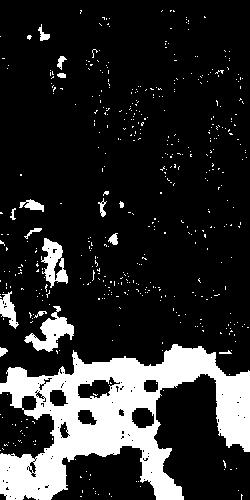
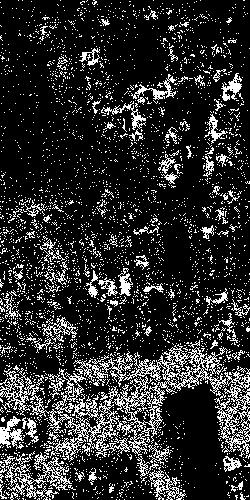
Changement de la politque d'apprentissage en pondérant les classes directement par rapport à leur proportion dans l'image #18, ajout de paramètre pour determiner la région d'apprentissage et de validation

diff --git a/MNT/RandomForests/randomForest.py b/MNT/RandomForests/randomForest.py
@@ -9,6 +9,7 @@ from skimage.transform import pyramid_gaussian
 import numpy as np
 import matplotlib.pyplot as plt
 import matplotlib.cm as cm
+import libtiff
 from libtiff import TIFF
 from PIL import Image
 from os import path
@@ -16,6 +17,7 @@ from netCDF4 import Dataset
 import math
 import argparse
 
+libtiff.libtiff_ctypes.suppress_warnings()
 
 def verite_terrain(in_dir):
   sol = path.join(in_dir,'sol.tif')
@@ -26,8 +28,6 @@ def verite_terrain(in_dir):
 
   imageBuilding=TIFF.open(building)
   imgBuilding = imageBuilding.read_image()
-
-  print(imgSol.shape)
 
   veriteTerrain = imgBuilding
 
@@ -49,33 +49,21 @@ def verite_terrain(in_dir):
 def preparation_donnees(altitudes, nb_zoom):
 
   #creation de la pyramide gaussienne
-  pyramid=tuple(pyramid_gaussian(altitudes,nb_zoom))
-  print(pyramid[0].shape, pyramid[1].shape)
+  pyramid=tuple(pyramid_gaussian(altitudes,nb_zoom, multichannel=False))
+
   #calcul des gradients
   Grad = []
   i = 0
   j = 0
 
   for i in range(nb_zoom):
-    x,y = np.gradient(pyramid[i])
-    Grad.append(np.sqrt(np.add(np.square(x), np.square(y))))
+      x,y = np.gradient(pyramid[i])
+      Grad.append(np.sqrt(np.add(np.square(x), np.square(y))))
 
-  for i in range(1,nb_zoom,1):
+  for i in range(1, nb_zoom, 1):
+      Grad[i] = np.repeat(Grad[i], math.pow(2,i), axis=0)
+      Grad[i] = np.repeat(Grad[i], math.pow(2,i), axis=1)
 
-    aux = np.zeros(pyramid[0].shape)
-
-    for o in range(i):
-      for x in range(Grad[i].shape[0]):
-        for y in range(Grad[i].shape[1]):
-
-          u = x * 2
-          j = y * 2
-          aux[u,j]= Grad[i][x,y]
-          aux[u+1,j] = Grad[i][x,y]
-          aux[u,j+1] = Grad[i][x,y]
-          aux[u+1,j+1] = Grad[i][x,y]
-
-      Grad[i] = aux
   return Grad
 
 
@@ -96,10 +84,30 @@ def preparation_features (altitude):
 parser = argparse.ArgumentParser()
 parser.add_argument('input_dir')
 parser.add_argument('nb_zoom')
+
+parser.add_argument('train_lower_x')
+parser.add_argument('train_higher_x')
+parser.add_argument('train_lower_y')
+parser.add_argument('train_higher_y')
+
+parser.add_argument('test_lower_x')
+parser.add_argument('test_higher_x')
+parser.add_argument('test_lower_y')
+parser.add_argument('test_higher_y')
+
 args = parser.parse_args()
 
 nb_zoom = int(args.nb_zoom)
 in_dir = args.input_dir
+
+train_box = (int(args.train_lower_x), int(args.train_higher_x),
+             int(args.train_lower_y), int(args.train_higher_y))
+train_size = (train_box[1] - train_box[0], train_box[3] - train_box[2])
+
+test_box = (int(args.test_lower_x), int(args.test_higher_x),
+            int(args.test_lower_y), int(args.test_higher_y))
+test_size = (test_box[1] - test_box[0], test_box[3] - test_box[2])
+
 
 #ouverture fichier netCDF
 dataset = Dataset(path.join(in_dir,'data.nc'))
@@ -111,21 +119,21 @@ altitudes = dataset.variables['altitude'][:,:]
 
 y = verite_terrain(in_dir)
 
-end = len(y[0])
-hend = int(math.floor(end/2))
-
 # préparation donnees train et test
-train = preparation_features(altitudes[:,:hend])
+train = preparation_features(altitudes[train_box[0]:train_box[1],
+                                       train_box[2]:train_box[3]])
 
-test = preparation_features(altitudes[:,hend:end])
+test = preparation_features(altitudes[test_box[0]:test_box[1],
+                                      test_box[2]:test_box[3]])
 
 # praparation des verite terrain train et test
-ytrain = np.ndarray.flatten(y[:,:hend])
+ytrain = np.ndarray.flatten(y[train_box[0]:train_box[1],
+                              train_box[2]:train_box[3]])
 ytrain = ytrain.reshape(ytrain.shape[0],1)
 
-ytest = np.ndarray.flatten(y[:,hend:end])
+ytest = np.ndarray.flatten(y[test_box[0]:test_box[1],
+                             test_box[2]:test_box[3]])
 ytest = ytest.reshape(ytest.shape[0],1)
-
 
 # applique le masque aux donnée d'entrainement
 ytrain = np.ma.masked_equal(ytrain, 3)
@@ -134,6 +142,24 @@ train = np.ma.array(train, mask=mask)
 ytrain = ytrain.compressed()
 train = train.compressed()
 train = train.reshape(ytrain.shape[0],nb_zoom+1)
+
+print('Statistiques sur la véritée terrain d\'entrainement')
+train_sol = float(len(ytrain[ytrain == 1]))
+train_sursol = float(len(ytrain[ytrain == 0]))
+train_total = float(len(ytrain))
+train_ratio_sol = train_sol / train_total
+train_ratio_sursol = train_sursol / train_total
+print('Pourcentage de pixels de sol : ', train_ratio_sol * 100)
+print('Pourcentage de pixels de sursol : ', train_ratio_sursol * 100)
+
+print('Statistiques sur la véritée terrain de test')
+test_sol = float(len(ytest[ytest == 1]))
+test_sursol = float(len(ytest[ytest == 0]))
+test_total = float(len(ytest[ytest != 3]))
+test_ratio_sol = test_sol / test_total
+test_ratio_sursol = test_sursol / test_total
+print('Pourcentage de pixels de sol : ', test_ratio_sol * 100)
+print('Pourcentage de pixels de sursol : ', test_ratio_sursol * 100)
 
 #ytest = np.ma.masked_equal(ytest, 3)
 #mask = np.repeat(np.ma.getmask(ytest), test.shape[1], axis=1)
@@ -144,58 +170,52 @@ train = train.reshape(ytrain.shape[0],nb_zoom+1)
 #test = test.reshape(ytest.shape[0],nb_zoom+1)
 
 weight = np.ndarray.flatten(np.array(ytrain))
-weight[weight == 0] = 0.7
-weight[weight == 1] = 0.5
-print(weight.shape)
+weight[weight == 0] = 1/train_ratio_sol
+weight[weight == 1] = 1/train_ratio_sursol
 
+class_weight = {0:1/test_ratio_sol, 1:1/train_ratio_sursol}
 #print(train.shape, ytrain.shape)
 #print(ytrain, weight)
 
 # preparation du random forest
-clf = RandomForestClassifier(n_estimators=100, max_depth=8,random_state=0,
-                             class_weight="balanced", criterion='entropy')
+clf = RandomForestClassifier(n_estimators=10, max_depth=None,random_state=None,
+                             class_weight=class_weight, criterion='gini',
+                             max_features=None ,n_jobs=-1)
 
 # apprentissage du rf
-clf.fit(train, ytrain, weight)
-
-print(clf.n_classes_)
+clf.fit(train, ytrain)
 
 # test du rf
 predict = clf.predict(test)
 predict = predict.reshape(predict.shape[0],1)
 
-res1 = np.equal(ytest, predict)
 known = np.array(ytest)
 known[known != 3] = True
 known[known == 3] = False
 
-error = np.logical_and(res1,known)
-
-accuracy_score = float(sum(sum(error))) / float(sum(sum(known)))
-print(accuracy_score)
+error = np.logical_and(np.equal(predict, ytest), known)
+accuracy_score = float(sum(error)) / float(sum(known))
+print('Score de precision : ',accuracy_score)
 
 img = ytest
 img[img == 3] = 128
 img[img == 1] = 255
-img = Image.fromarray(img.reshape(end,hend))
+img = Image.fromarray(ytest.reshape(test_size))
 img = img.convert('L')
 img.save('sortie/veriteTerrain.jpg')
 
-img = predict
-img[img == 3] = 128
-img[img == 1] = 255
-img = Image.fromarray(img.reshape(end,hend))
-img = img.convert('L')
+predict[predict == 1] = 255
+img = Image.fromarray(predict.reshape(test_size))
+img = img.convert('1')
 img.save('sortie/predict.jpg')
 
 known[known == 1] = 255
-img = Image.fromarray(known.reshape(end,hend))
-img = img.convert('L')
+img = Image.fromarray(known.reshape(test_size))
+img = img.convert('1')
 img.save('sortie/known.jpg')
 
-img = Image.fromarray(error.reshape(end,hend))
+error[error == 0] = 0
+error[error == 1] = 255
+img = Image.fromarray(error.reshape(test_size))
 img = img.convert('L')
 img.save('sortie/erreur.jpg')
-
-#res = metrics.accuracy_score(ytest, predict, normalize=True)
-#print(res)
